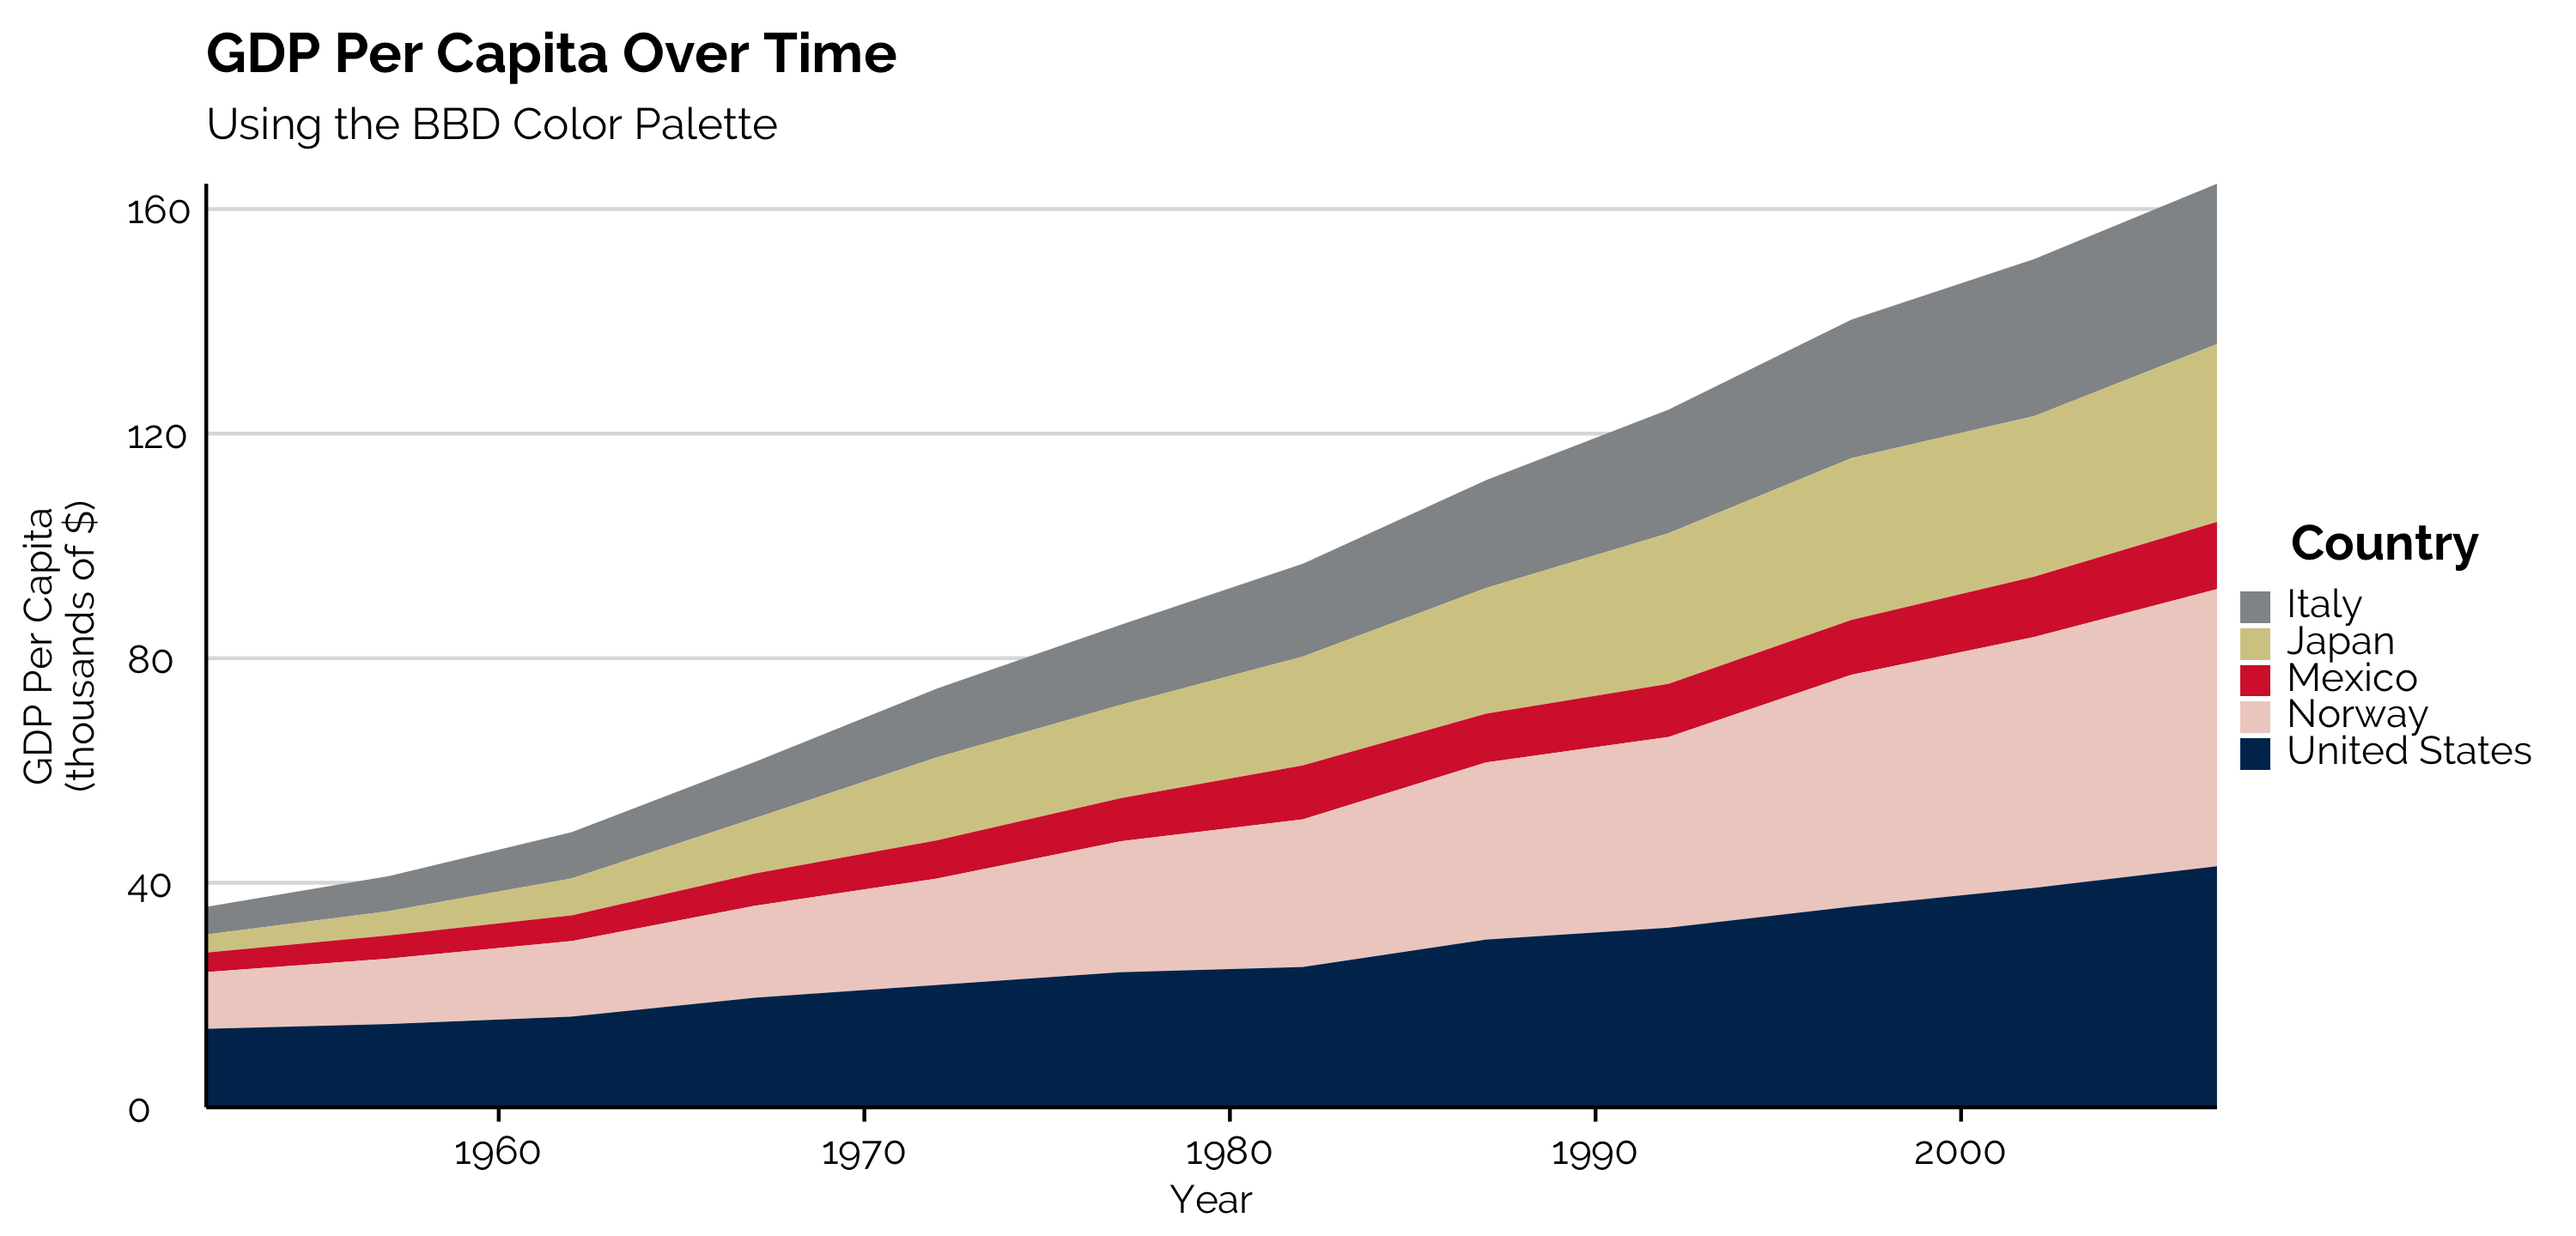
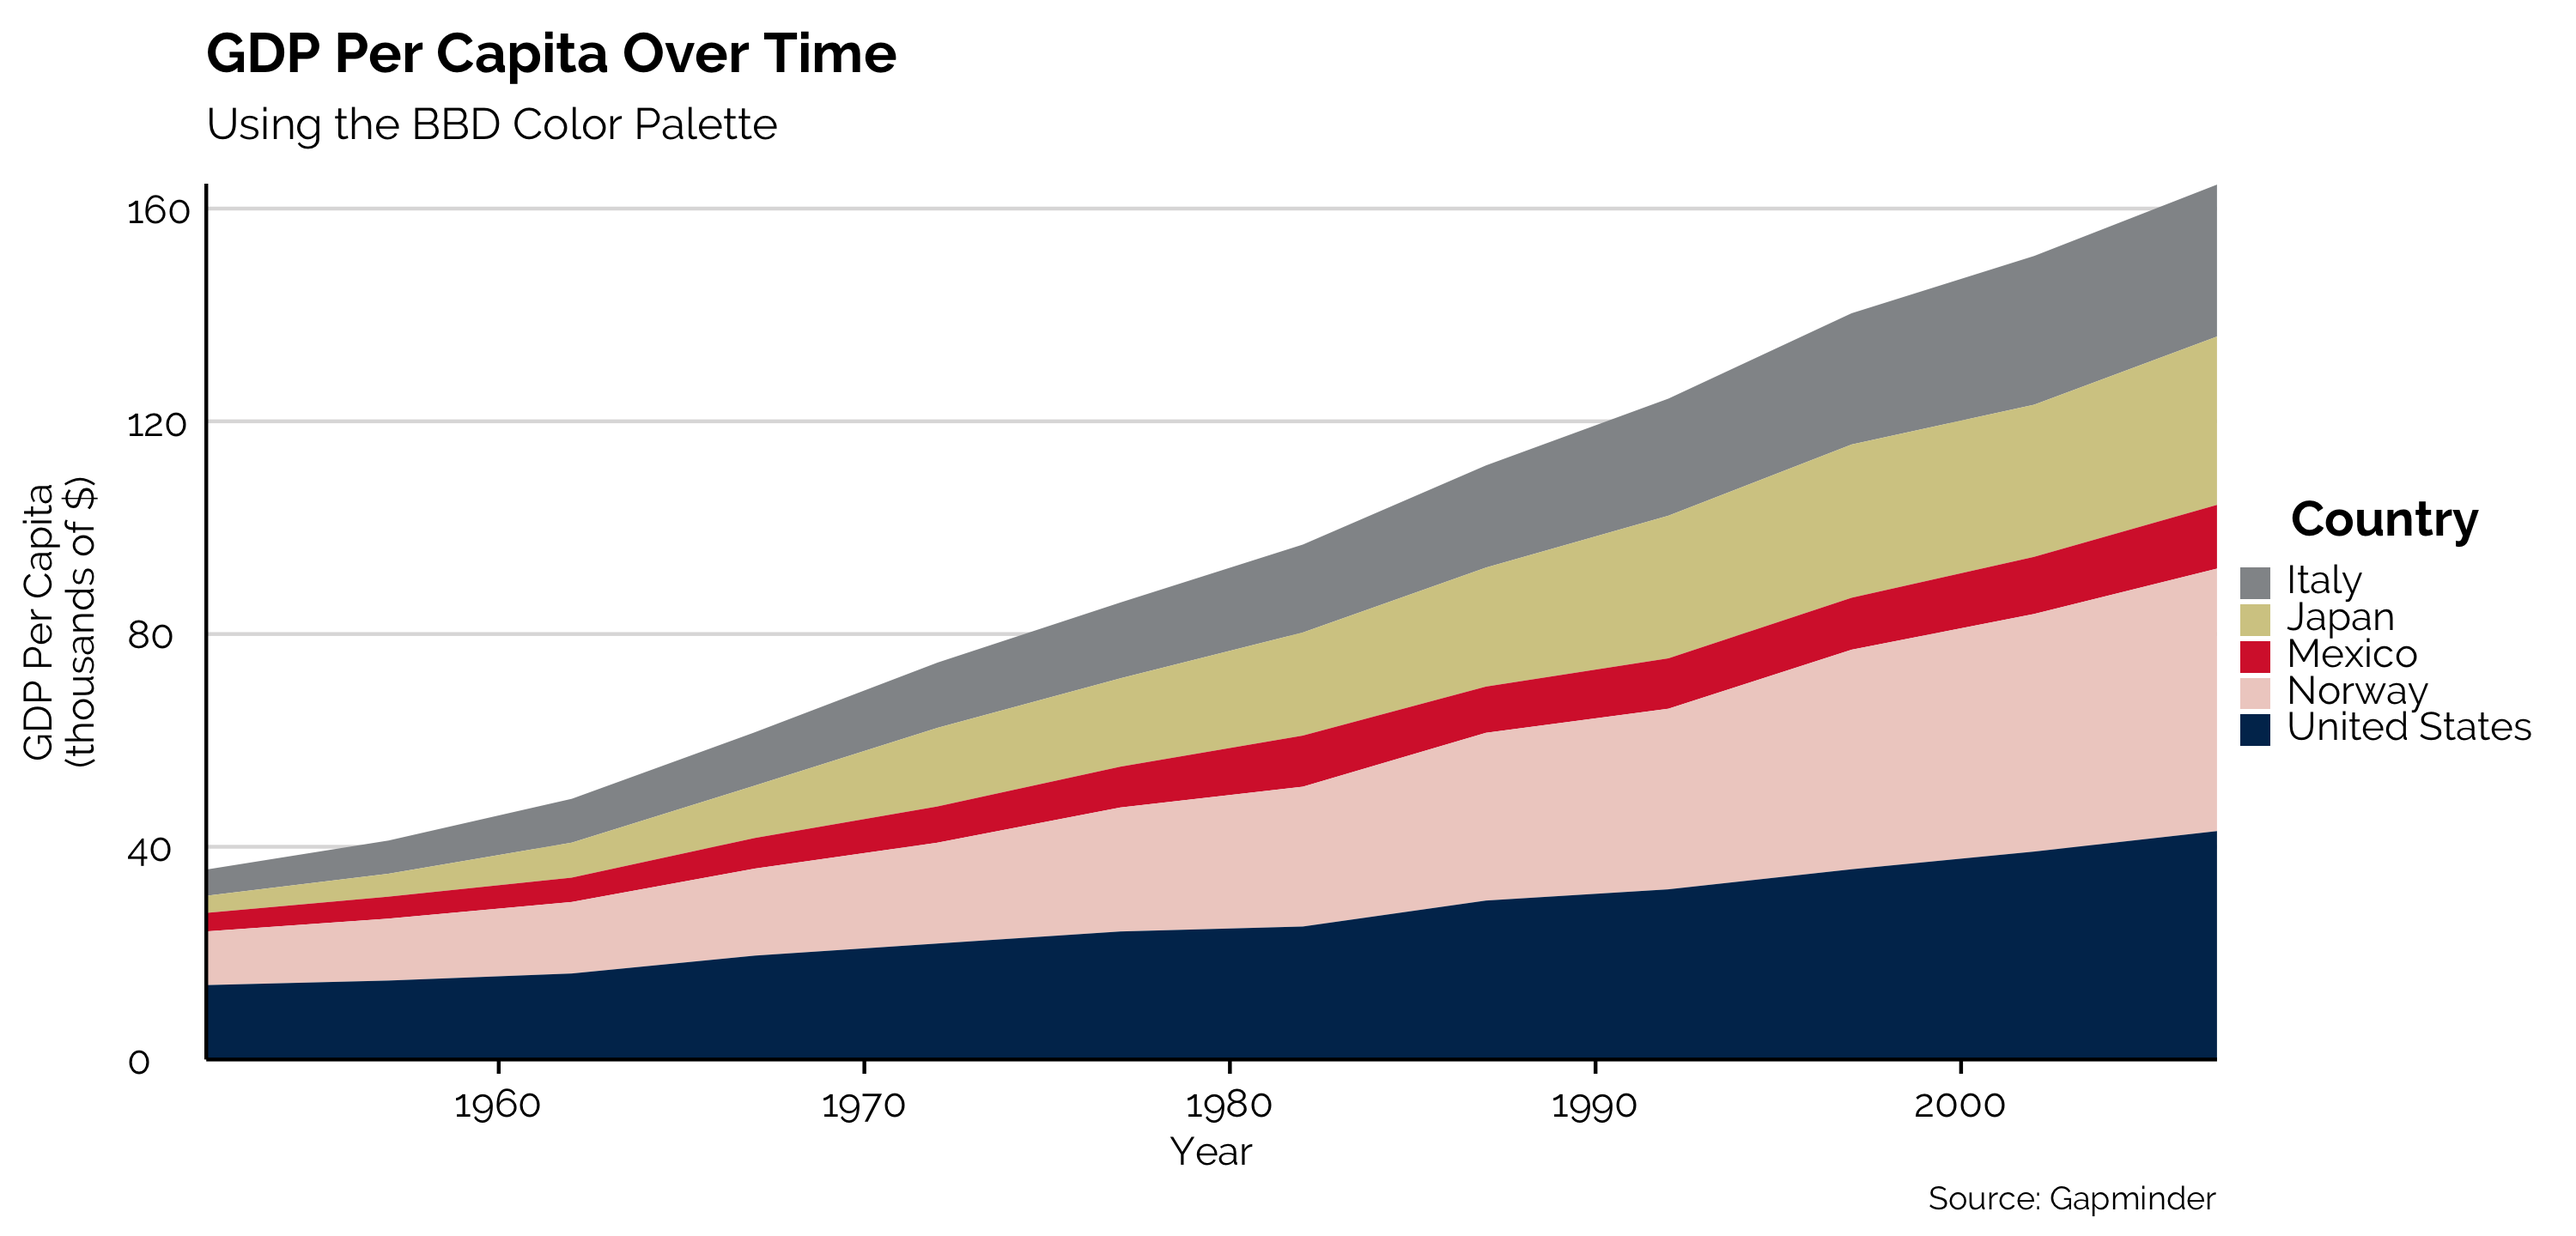
formatting

diff --git a/README.md b/README.md
@@ -18,12 +18,13 @@ set_bbd_theme()
 ggplot(data = data, aes(x = year, y = gdpPercap/1000, fill = country)) +
   geom_area() +
   scale_x_date(expand = c(0,0)) +
-  scale_y_continuous(expand = c(0, 0)) +
+  fix_bars() +
   labs(title = "GDP Per Capita Over Time",
        subtitle = "Using the BBD Color Palette",
        x = "Year",
        y = "GDP Per Capita\n(thousands of $)",
-       fill = "Country")
+       fill = "Country",
+       caption = "Source: Gapminder")
 ```
 
 <img src="man/figures/README-unnamed-chunk-1-1.png" style="display: block; margin: auto;" />
